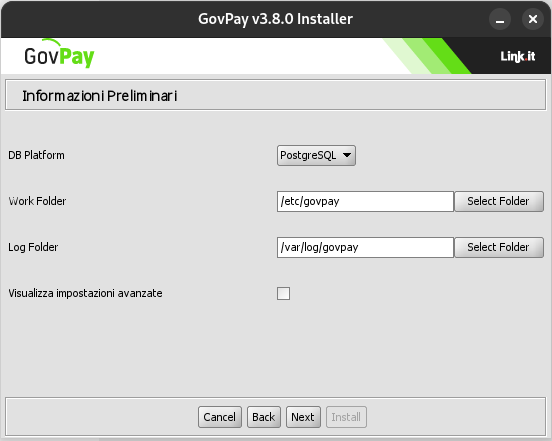
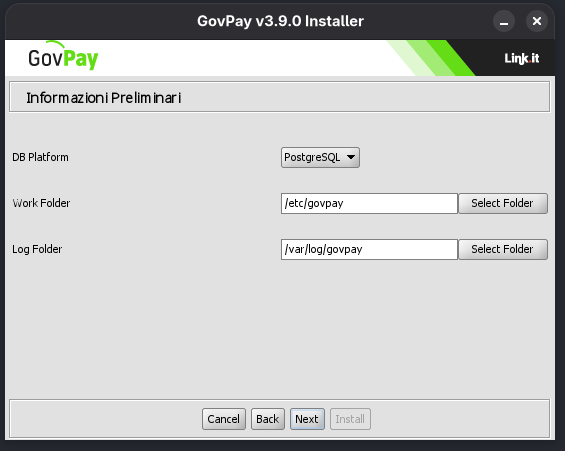
Corretta sezione Installazione della documentazione. Sistemato installer.

diff --git a/docs/conf.py b/docs/conf.py
@@ -8,7 +8,7 @@
 # -- Project information -----------------------------------------------------
 
 project = 'GovPay'
-copyright = 'Copyright (c) 2005-2025 Link.it srl (https://link.it).'
+copyright = 'Copyright (c) 2005-2026 Link.it srl (https://link.it).'
 author = 'Link.it'
 numfig = True
 

diff --git a/docs/installazione/configurazione/index.rst b/docs/installazione/configurazione/index.rst
@@ -85,7 +85,6 @@ Devono essere inserite le seguenti informazioni:
  -  **file di configurazione di Spring Security personalizzati**
 
 -  **Log Folder**: inserire il path assoluto della directory, presente nell'ambiente di destinazione, che sarà utilizzata da GovPay per inserire i diversi file di tracciamento prodotti.
--  **Visualizza Impostazioni Avanzate**: opzioni per abilitare funzionalità avanzate del prodotto, saranno visualizzate in un passaggio più avanti.
 
 
 Riferimenti Accesso GovPay
@@ -168,7 +167,7 @@ Nella schermata "File di configurazione Console Backoffice" si deve inserire il 
 Configurazioni Avanzate
 ~~~~~~~~~~~~~~~~~~~~~~~
 
-La schermata "Configurazioni Avanzate" è presente solo se nel passaggio "Informazioni Preliminari" è stata selezionata l'opzione "Visualizza Impostazioni Avanzate".
+La schermata "Configurazioni Avanzate" consente di configurare opzioni avanzate del prodotto.
 
 .. figure:: ../_images/INS06_ConfigurazioniAvanzate.png
    :alt: Pagina relativa alle configurazioni avanzate
@@ -180,6 +179,64 @@ La schermata "Configurazioni Avanzate" è presente solo se nel passaggio "Inform
 **Configurazione Spring Security**
 
 -  **Usa file di configurazione esterni:** opzione che abilita i file di configurazione esterni di Spring per l'accesso alle funzionalità avanzate, come la configurazione delle modalità di autenticazione (:ref:`inst_dispiegamento_auth`).
+
+
+Componenti Aggiuntivi
+~~~~~~~~~~~~~~~~~~~~~
+
+La schermata "Componenti Aggiuntivi" consente di selezionare i batch esterni da abilitare.
+
+.. figure:: ../_images/INS09_ConfigurazioneComponentiAggiuntivi.png
+   :alt: Pagina relativa alla selezione dei componenti aggiuntivi
+   :align: center
+   :name: InstallazioneComponentiAggiuntivi
+
+   Componenti Aggiuntivi
+
+I batch esterni disponibili sono:
+
+-  **Batch ACA:** invio delle posizioni debitorie all'Archivio Centralizzato degli Avvisi (ACA) di pagoPA
+-  **Batch FdR:** acquisizione dei Flussi di Rendicontazione (FdR) da pagoPA
+-  **Batch Recupero RT:** recupero delle Ricevute Telematiche (RT) mancanti dal Nodo pagoPA
+-  **Batch Verifica IBAN:** verifica della configurazione degli IBAN degli Enti Creditori
+-  **Batch Notifica Rendicontazioni:** notifica dei pagamenti completati salvo buon fine
+
+Per ciascun batch selezionato verrà presentata una schermata di configurazione dove inserire la **Base URL** dell'endpoint esposto dal batch.
+
+.. figure:: ../_images/INS10_ConfigurazioneACA.png
+   :alt: Pagina relativa alla configurazione del batch ACA
+   :align: center
+   :name: InstallazioneConfigurazioneBatchACA
+
+   Configurazione Batch ACA
+
+.. figure:: ../_images/INS11_ConfigurazioneFDR.png
+   :alt: Pagina relativa alla configurazione del batch FDR
+   :align: center
+   :name: InstallazioneConfigurazioneBatchFDR
+
+   Configurazione Batch FdR
+
+.. figure:: ../_images/INS12_ConfigurazioneRT.png
+   :alt: Pagina relativa alla configurazione del batch Recupero RT
+   :align: center
+   :name: InstallazioneConfigurazioneBatchRT
+
+   Configurazione Batch Recupero RT
+
+.. figure:: ../_images/INS13_ConfigurazioneIBAN.png
+   :alt: Pagina relativa alla configurazione del batch IBAN
+   :align: center
+   :name: InstallazioneConfigurazioneBatchIBAN
+
+   Configurazione Batch Verifica IBAN
+
+.. figure:: ../_images/INS14_ConfigurazioneNotifica.png
+   :alt: Pagina relativa alla configurazione del batch Notifica
+   :align: center
+   :name: InstallazioneConfigurazioneBatchNotifica
+
+   Configurazione Batch Notifica Rendicontazioni
 
 
 Installazione
@@ -247,12 +304,46 @@ govpay-rt-batch
 
 Batch per il recupero delle Ricevute Telematiche (RT) mancanti dal Nodo pagoPA.
 
+- **Repository:** https://github.com/link-it/govpay-rt-batch
+- **Release:** https://github.com/link-it/govpay-rt-batch/releases
+
 Questo componente consente di:
 
 - Individuare le rendicontazioni prive della corrispondente ricevuta di pagamento, più vecchie di una soglia temporale configurabile (default: 15 giorni)
 - Recuperare automaticamente le RT mancanti invocando l'endpoint ``GET /organizations/{codDominio}/receipts/{iur}`` del Nodo pagoPA
 - Persistere le ricevute recuperate nel database di GovPay e aggiornare lo stato delle rendicontazioni
 - Registrare tutte le operazioni nel Giornale degli Eventi (GDE)
+
+govpay-iban-batch
+~~~~~~~~~~~~~~~~~
+
+Batch per la verifica della configurazione degli IBAN degli Enti Creditori.
+
+- **Repository:** https://github.com/link-it/govpay-iban-batch
+- **Release:** https://github.com/link-it/govpay-iban-batch/releases
+
+Questo componente consente di:
+
+- Verificare periodicamente la corretta configurazione degli IBAN associati agli Enti Creditori
+- Segnalare eventuali anomalie o disallineamenti nella configurazione
+
+Il batch può essere schedulato per eseguire periodicamente la verifica degli IBAN configurati.
+
+govpay-notifica-batch
+~~~~~~~~~~~~~~~~~~~~~
+
+Batch per la notifica dei pagamenti completati salvo buon fine.
+
+- **Repository:** https://github.com/link-it/govpay-notifica-batch
+- **Release:** https://github.com/link-it/govpay-notifica-batch/releases
+
+Questo componente consente di:
+
+- Inviare notifiche relative ai pagamenti completati con esito salvo buon fine
+- Gestire il ciclo di vita delle notifiche verso i sistemi degli Enti Creditori
+
+Il batch può essere schedulato per eseguire periodicamente l'invio delle notifiche
+per i pagamenti completati.
 
 govpay-gde-api
 ~~~~~~~~~~~~~~
